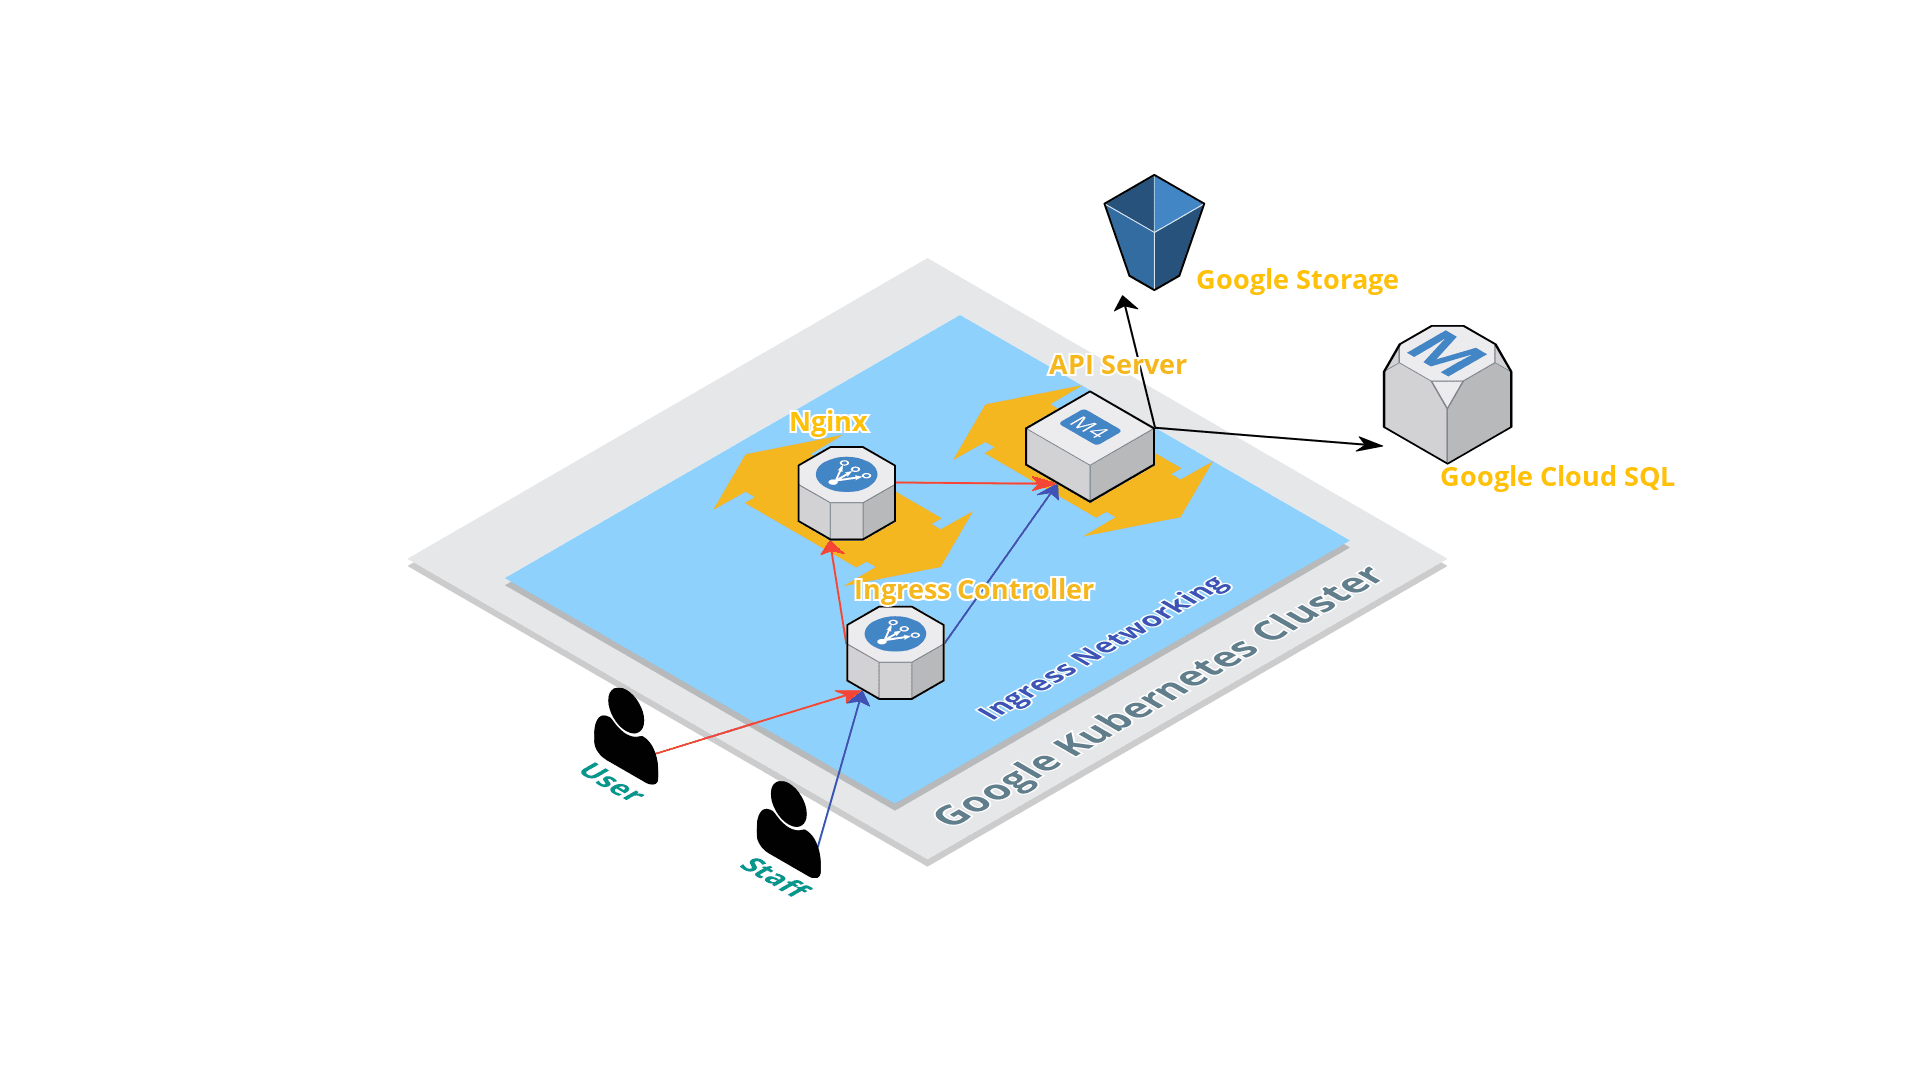
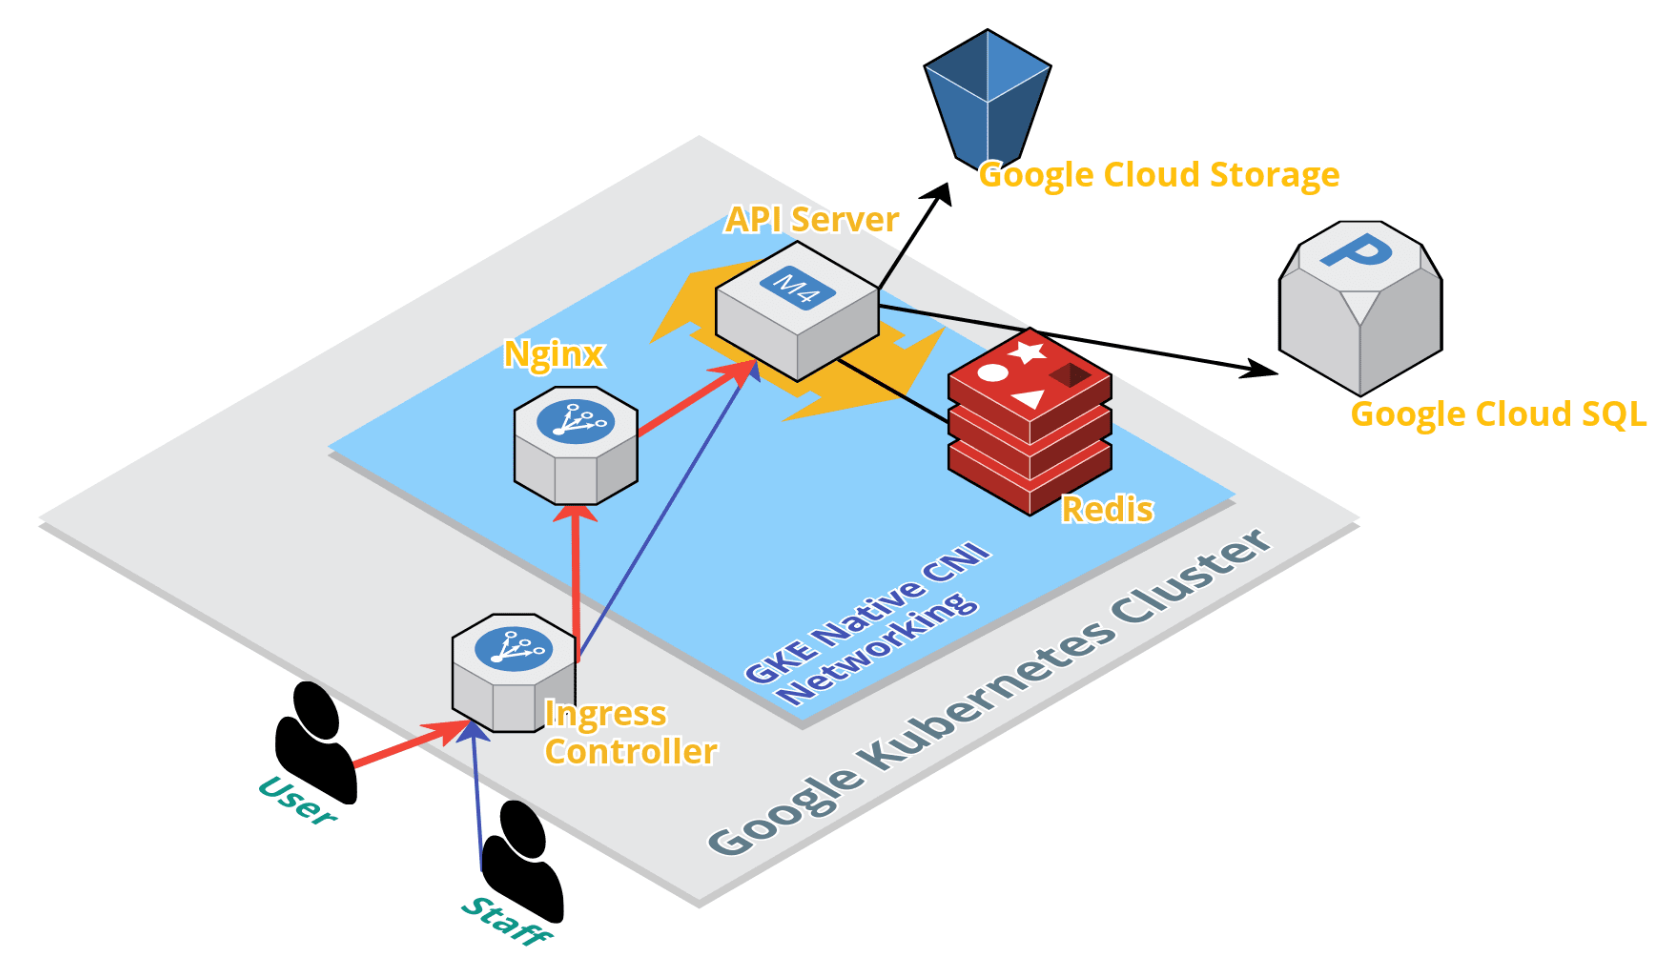
docs(readme): Update README.md

Changed region(s): [[0.0, 0.0312, 0.994, 0.999]]

diff --git a/README.md b/README.md
@@ -16,19 +16,24 @@ On Linux, make sure you have the latest version of [Compose](https://docs.docker
 
 **Linux Containers**
 
-The Linux stack uses `Python`, `Node.js`, with `Postgres` for storage and `Nginx` for local proxying.
+The Linux stack uses `Python`, `Node.js`, with `Postgres` for storage, `Redis` for caching and `Nginx` for local proxying.
+
+To save your time from image rebuild, pull the cache image from our [DockerHub registry](https://hub.docker.com/r/froggytaipei):
+```
+$ make pull-cache
+```
 
 Create your own `.env` file at root, e.g. using `.env.example`:
 ```
-$ sudo cp .env.example .env
+$ cp .env.example .env
 ```
 
-Use `--build` to rebuild image, `-d` to run containers in the background :
+Start services, add `--build` to rebuild image, `-d` to run containers in the background :
 ```
-$ docker-compose up --build
+$ docker-compose up
 ```
 
-Use `-v` to clean volume while stop containers:
+Stop services, add `-v` to clean volume while stop containers:
 ```
 $ docker-compose down -v
 ```
